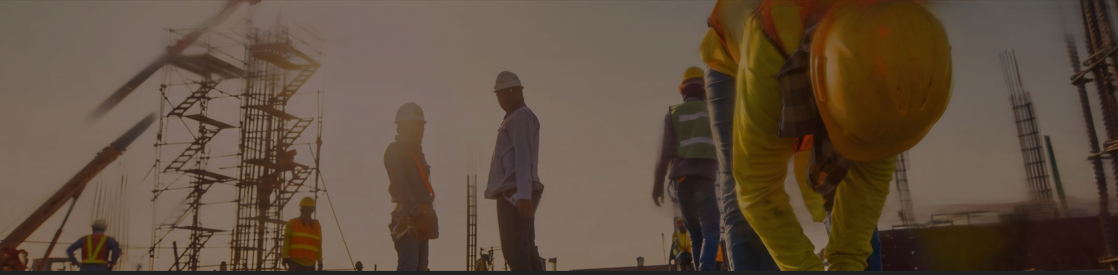
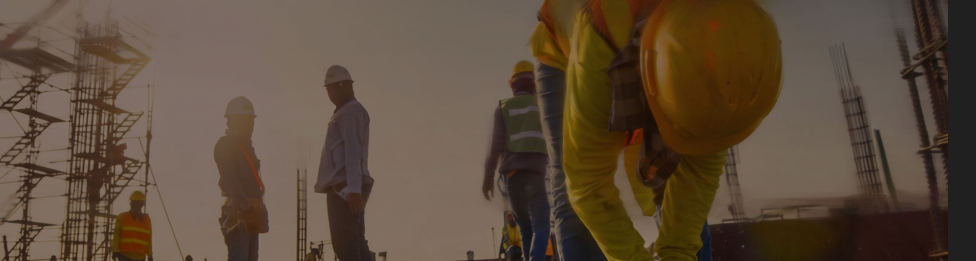
aif

diff --git a/templates/verify.html b/templates/verify.html
@@ -546,7 +546,7 @@
 
         .verify-hamburger-btn span {
             display: block;
-            height: 2.5px;
+            height: 2px;
             /* thora mota */
             background-color: #0c598f;
             /* tumhara blue color */
@@ -575,7 +575,8 @@
         }
 
         .tp-breadcrumb__bg {
-            filter: brightness(1.9);
+            filter: brightness(2.3);
+            background-color: rgba(12, 40, 72, 0.6);
         }
     </style>
 </body>
